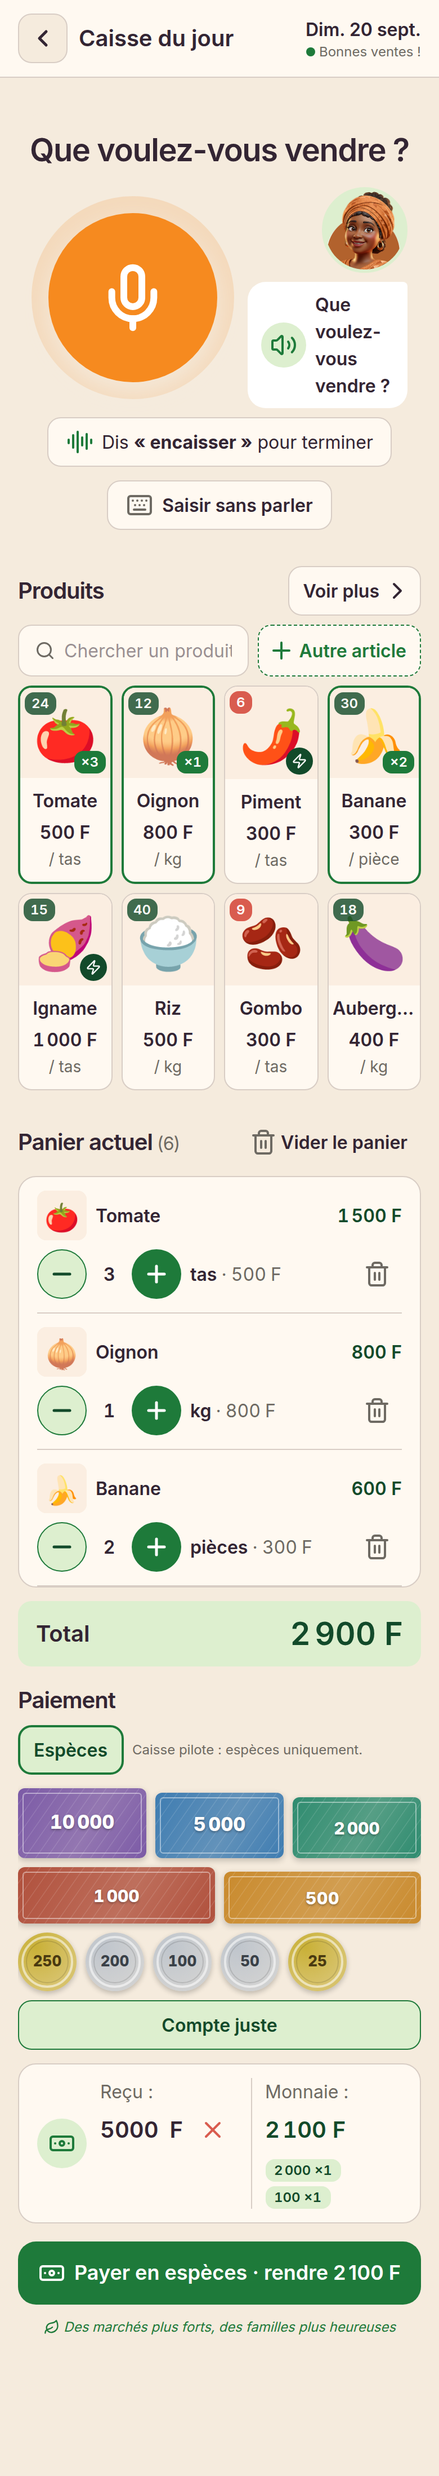
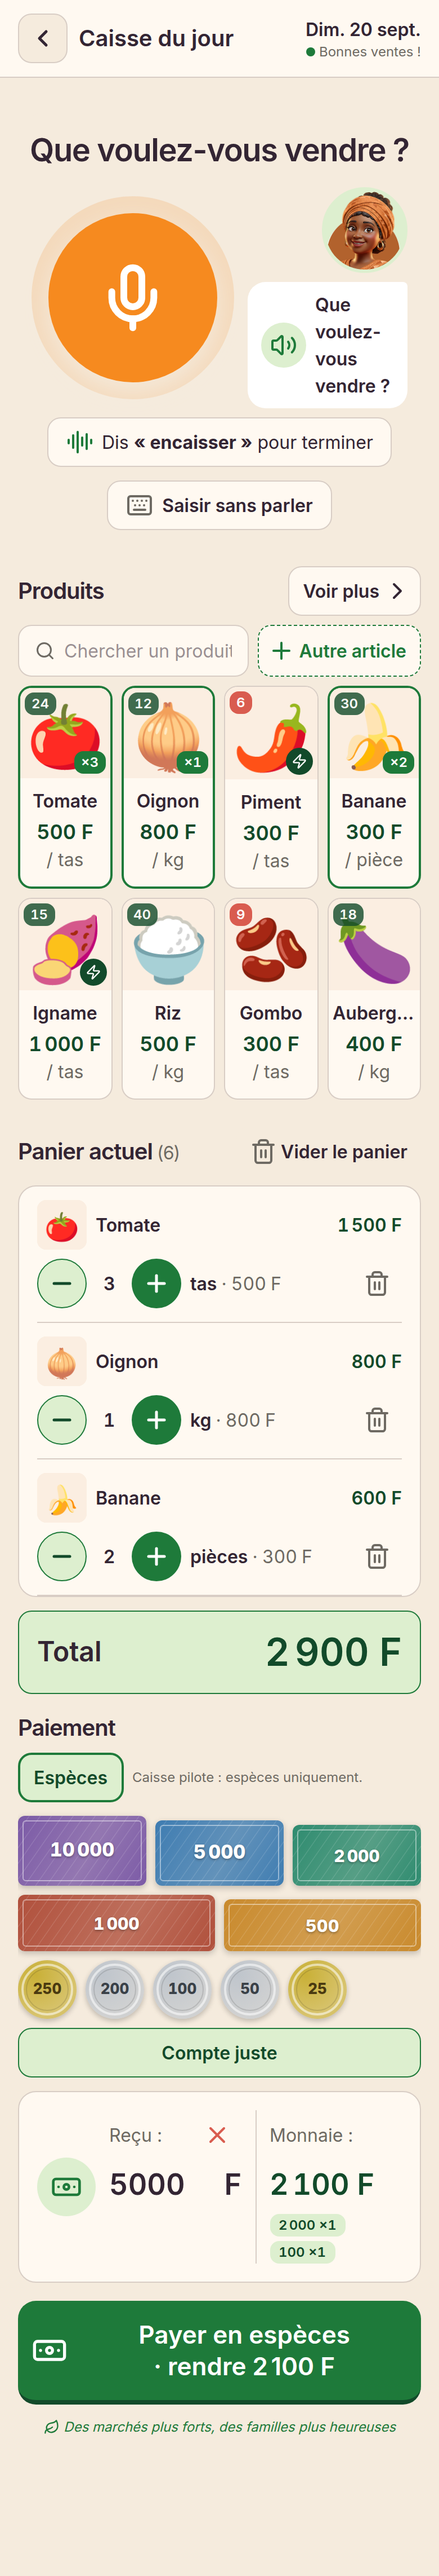
style(caisse): hierarchie du premier ecran — l'argent et le bouton pesent comme la maquette (F2, temps 2)
Retour de Patrick : « la densite est trop forte, on risque de perdre la
lisibilite » ; « l'argent doit etre l'element le plus evident apres le
panier » ; « Payer en especes » doit avoir la presence massive de la cible.

POSCaisse, STYLE SEULEMENT (aucune logique C/D/E/argent touchee, memes
gestionnaires, memes chaines) :
  - cartes produit : la vignette remplit son cadre (scale 1.22 dans un cadre
    a overflow cache), nom 16/24 semibold, prix en 18/24 semibold vert fonce
    avec l'unite en 16 gris, carte de 180 px ;
  - barre Total : 72 px minimum, bordure verte, « Total » 24, montant 34/40
    vert fonce ;
  - carte Recu | Monnaie : montants 26 px, icone billet dans un disque de
    52 ; la colonne Recu met l'etiquette et le ✕ sur une rangee, le montant
    seul dessous — a 28 px « 5 000 F ✕ » etait COUPE dans 125 px de colonne
    (mesure sur la capture « encaisse ») ;
  - « Payer en especes » : 72 px minimum, texte 22/28 semibold (>= 18/24),
    icone 32, pleine largeur, lisere bas vert fonce ;
  - l'encart de relecture financiere (livre par 276e124) devient une BULLE
    et non une alerte : haut-parleur dans un disque blanc comme celui de la
    bulle de Tata, coin haut-gauche casse, phrase 18/26 semibold, bouton
    « Reecouter » sous la phrase. Fond succes, bordure verte, tokens, ICONE,
    speak(relectureAffichee) et cible 44 : ce que caisseRelectureAffichee
    exige est inchange.

Banc de capture : stub du moteur vocal (apercu-caisse/stubs/useVoiceCore.ts)
[…]

diff --git a/frontend_src/src/app/components/marchand/POSCaisse.tsx b/frontend_src/src/app/components/marchand/POSCaisse.tsx
@@ -479,9 +479,9 @@ function POSCaisseInner() {
   // qui se replie proprement quand la vignette est étroite (« 1 000 F » puis
   // « / kg » dessous).
   const Prix = ({ prix, unite }: { prix: number; unite: string }) => (
-    <div style={{ marginTop:'var(--caisse-esp-1)', display:'flex', flexWrap:'wrap', columnGap:'var(--caisse-esp-1)', alignItems:'baseline', justifyContent:'center', font:'var(--caisse-font-texte)', fontWeight:600, color:'var(--encre)', fontVariantNumeric:'tabular-nums' }}>
+    <div style={{ marginTop:'var(--caisse-esp-1)', display:'flex', flexWrap:'wrap', columnGap:'var(--caisse-esp-1)', alignItems:'baseline', justifyContent:'center', font:'var(--caisse-font-bouton)', color:'var(--caisse-vert-fonce)', fontVariantNumeric:'tabular-nums' }}>
       <span>{prix.toLocaleString('fr-FR')} F</span>
-      <span style={{ fontWeight:400, fontSize:14, color:'var(--caisse-gris-texte)' }}>/ {unite}</span>
+      <span style={{ font:'var(--caisse-font-texte)', color:'var(--caisse-gris-texte)' }}>/ {unite}</span>
     </div>
   );
 
@@ -600,9 +600,9 @@ function POSCaisseInner() {
           celui qu'elle regarde avant de dire le prix à la cliente. */}
       <button type="button" onClick={() => dire(`Total : ${total.toLocaleString('fr-FR')} francs`)}
         aria-label={`Total ${total.toLocaleString('fr-FR')} francs — touche pour entendre`}
-        style={{ width:'100%', display:'flex', alignItems:'center', justifyContent:'space-between', gap:'var(--caisse-esp-2)', marginBottom:'var(--caisse-esp-4)', background:'var(--caisse-succes)', border:'none', borderRadius:'var(--caisse-rayon-3)', padding:'var(--caisse-esp-3) var(--caisse-esp-4)', minHeight:'var(--caisse-cible-tactile)', cursor:'pointer', fontFamily:'inherit' }}>
-        <span style={{ font:'var(--caisse-font-h2)', color:'var(--encre)' }}>Total</span>
-        <span style={{ font:'var(--caisse-font-h1)', color:'var(--caisse-vert-fonce)', fontVariantNumeric:'tabular-nums' }}>{total.toLocaleString('fr-FR')} F</span>
+        style={{ width:'100%', display:'flex', alignItems:'center', justifyContent:'space-between', gap:'var(--caisse-esp-2)', marginBottom:'var(--caisse-esp-4)', background:'var(--caisse-succes)', border:'1.5px solid var(--caisse-vert)', borderRadius:'var(--caisse-rayon-3)', padding:'var(--caisse-esp-4) var(--caisse-esp-4)', minHeight:72, cursor:'pointer', fontFamily:'inherit' }}>
+        <span style={{ font:'var(--caisse-font-h1)', fontSize:24, color:'var(--encre)' }}>Total</span>
+        <span style={{ font:'var(--caisse-font-h1)', fontSize:34, lineHeight:'40px', color:'var(--caisse-vert-fonce)', fontVariantNumeric:'tabular-nums' }}>{total.toLocaleString('fr-FR')} F</span>
       </button>
 
       <h2 style={{ font:'var(--caisse-font-h2)', color:'var(--encre)', margin:'0 0 var(--caisse-esp-2)' }}>Paiement</h2>
@@ -693,11 +693,22 @@ function POSCaisseInner() {
             rejoue la même chaîne. */}
         {relectureAffichee && (
           <div role="status" aria-live="polite"
-            style={{ display:'flex', alignItems:'center', gap:'var(--caisse-esp-3)', marginTop:'var(--caisse-esp-3)', background:'var(--caisse-succes)', border:'1.5px solid var(--caisse-vert)', borderRadius:'var(--caisse-rayon-4)', padding:'var(--caisse-esp-3) var(--caisse-esp-4)', minWidth:0 }}>
-            <Volume2 aria-hidden="true" size={ICONE} style={{ color:'var(--caisse-vert)', flexShrink:0 }} />
-            <p style={{ flex:1, minWidth:0, margin:0, font:'var(--caisse-font-texte)', fontWeight:600, color:'var(--encre)' }}>{relectureAffichee}</p>
+            style={{ display:'flex', flexDirection:'column', gap:'var(--caisse-esp-3)', marginTop:'var(--caisse-esp-3)', background:'var(--caisse-succes)', border:'1.5px solid var(--caisse-vert)', borderRadius:'var(--caisse-rayon-4)', borderTopLeftRadius:'var(--caisse-rayon-1)', padding:'var(--caisse-esp-3) var(--caisse-esp-4)', minWidth:0 }}>
+            {/* Une BULLE, pas une alerte (F2) : le haut-parleur dans son disque
+                blanc — le même que celui de la bulle de Tata dans la zone
+                voix — et le coin haut-gauche cassé, comme une parole qui
+                vient d'en haut. La phrase en texte courant semibold, plus
+                grande que les libellés autour : c'est la question à laquelle
+                « oui valide » répond. */}
+            <div style={{ display:'flex', alignItems:'flex-start', gap:'var(--caisse-esp-3)', minWidth:0 }}>
+              <span aria-hidden="true" style={{ width:40, height:40, borderRadius:'50%', background:'white', color:'var(--caisse-vert)', display:'flex', alignItems:'center', justifyContent:'center', flexShrink:0 }}>
+                <Volume2 aria-hidden="true" size={ICONE} style={{ color:'var(--caisse-vert)', flexShrink:0 }} />
+              </span>
+              <p style={{ flex:1, minWidth:0, margin:0, font:'var(--caisse-font-texte)', fontSize:18, lineHeight:'26px', fontWeight:600, color:'var(--encre)', alignSelf:'center' }}>{relectureAffichee}</p>
+            </div>
             <button type="button" onClick={() => speak(relectureAffichee)} aria-label="Réécouter la relecture"
-              style={{ minWidth:'var(--caisse-cible-tactile)', minHeight:'var(--caisse-cible-tactile)', padding:'var(--caisse-esp-2) var(--caisse-esp-3)', borderRadius:'var(--caisse-rayon-3)', border:'1.5px solid var(--caisse-vert)', background:'var(--caisse-ivoire)', color:'var(--caisse-vert-fonce)', font:'var(--caisse-font-texte)', fontWeight:600, cursor:'pointer', fontFamily:'inherit', flexShrink:0 }}>
+              style={{ alignSelf:'flex-end', display:'flex', alignItems:'center', gap:'var(--caisse-esp-2)', minWidth:'var(--caisse-cible-tactile)', minHeight:'var(--caisse-cible-tactile)', padding:'var(--caisse-esp-2) var(--caisse-esp-4)', borderRadius:'var(--caisse-rayon-3)', border:'1.5px solid var(--caisse-vert)', background:'var(--caisse-ivoire)', color:'var(--caisse-vert-fonce)', font:'var(--caisse-font-texte)', fontWeight:600, cursor:'pointer', fontFamily:'inherit', flexShrink:0 }}>
+              <Volume2 aria-hidden="true" size={20} />
               Réécouter
             </button>
           </div>
@@ -706,19 +717,13 @@ function POSCaisseInner() {
         {/* LA CARTE PAIEMENT de la maquette : Reçu | Monnaie. Le reçu reste un
             champ (le filet pour celle qui tape), la monnaie s'entend d'un
             toucher, et se décompose en coupures concrètes dessous. */}
-        <div style={{ display:'flex', alignItems:'stretch', gap:'var(--caisse-esp-3)', marginTop:'var(--caisse-esp-3)', background:'var(--caisse-ivoire)', border:'1px solid var(--commerce-line)', borderRadius:'var(--caisse-rayon-4)', padding:'var(--caisse-esp-3) var(--caisse-esp-4)', minWidth:0 }}>
-          <div aria-hidden="true" style={{ alignSelf:'center', width:44, height:44, borderRadius:'50%', background:'var(--caisse-succes)', color:'var(--caisse-vert)', display:'flex', alignItems:'center', justifyContent:'center', flexShrink:0 }}>
-            <Banknote size={ICONE} />
+        <div style={{ display:'flex', alignItems:'stretch', gap:'var(--caisse-esp-3)', marginTop:'var(--caisse-esp-3)', background:'var(--caisse-ivoire)', border:'1.5px solid var(--commerce-line)', borderRadius:'var(--caisse-rayon-4)', padding:'var(--caisse-esp-4)', minWidth:0 }}>
+          <div aria-hidden="true" style={{ alignSelf:'center', width:52, height:52, borderRadius:'50%', background:'var(--caisse-succes)', color:'var(--caisse-vert)', display:'flex', alignItems:'center', justifyContent:'center', flexShrink:0 }}>
+            <Banknote size={28} />
           </div>
           <div style={{ flex:1, minWidth:0 }}>
-            <div style={{ font:'var(--caisse-font-texte)', color:'var(--caisse-gris-texte)' }}>Reçu :</div>
-            <div style={{ display:'flex', alignItems:'center', gap:'var(--caisse-esp-1)', minWidth:0 }}>
-              {/* minWidth:0 — sans lui, un input vide garde un min-content flexbox
-                  qui peut dépasser un conteneur étroit (panneau permanent 400px,
-                  repéré en recette visuelle) au lieu de rétrécir avec flex:1. */}
-              <input value={montantRecu} onChange={e => setMontantRecu(e.target.value.replace(/[^\d]/g,''))} inputMode="numeric" placeholder="—" aria-label="Montant reçu"
-                style={{ flex:1, minWidth:0, width:'100%', minHeight:'var(--caisse-cible-tactile)', border:'none', outline:'none', textAlign:'left', font:'var(--caisse-font-h2)', fontWeight:600, color:'var(--encre)', background:'transparent', fontVariantNumeric:'tabular-nums', padding:0 }} />
-              <span style={{ font:'var(--caisse-font-h2)', color:'var(--encre)' }}>F</span>
+            <div style={{ display:'flex', alignItems:'center', justifyContent:'space-between', gap:'var(--caisse-esp-1)', minHeight:'var(--caisse-cible-tactile)' }}>
+              <span style={{ font:'var(--caisse-font-texte)', color:'var(--caisse-gris-texte)' }}>Reçu :</span>
               {recu > 0 && (
                 <button type="button" aria-label="Effacer le montant reçu" onClick={() => setMontantRecu('')}
                   style={{ width:'var(--caisse-cible-tactile)', height:'var(--caisse-cible-tactile)', borderRadius:'50%', border:'none', background:'transparent', color:'var(--caisse-alerte)', display:'flex', alignItems:'center', justifyContent:'center', cursor:'pointer', padding:0, flexShrink:0 }}>
@@ -726,14 +731,22 @@ function POSCaisseInner() {
                 </button>
               )}
             </div>
+            <div style={{ display:'flex', alignItems:'center', gap:'var(--caisse-esp-1)', minWidth:0 }}>
+              {/* minWidth:0 — sans lui, un input vide garde un min-content flexbox
+                  qui peut dépasser un conteneur étroit (panneau permanent 400px,
+                  repéré en recette visuelle) au lieu de rétrécir avec flex:1. */}
+              <input value={montantRecu} onChange={e => setMontantRecu(e.target.value.replace(/[^\d]/g,''))} inputMode="numeric" placeholder="—" aria-label="Montant reçu"
+                style={{ flex:1, minWidth:0, width:'100%', minHeight:'var(--caisse-cible-tactile)', border:'none', outline:'none', textAlign:'left', font:'var(--caisse-font-h1)', fontSize:26, color:'var(--encre)', background:'transparent', fontVariantNumeric:'tabular-nums', padding:0 }} />
+              <span style={{ font:'var(--caisse-font-h1)', fontSize:26, color:'var(--encre)' }}>F</span>
+            </div>
           </div>
           <div aria-hidden="true" style={{ width:1, background:'var(--commerce-line)', flexShrink:0 }} />
           {recu > 0 && !insuffisant ? (
           <button type="button" onClick={() => dire(`Monnaie à rendre : ${formatF(monnaie)} francs`)}
             aria-label={`Monnaie à rendre ${formatF(monnaie)} francs — touche pour entendre`}
             style={{ flex:1, minWidth:0, background:'none', border:'none', padding:0, cursor:'pointer', fontFamily:'inherit', textAlign:'left' }}>
-            <div style={{ font:'var(--caisse-font-texte)', color:'var(--caisse-gris-texte)' }}>Monnaie :</div>
-            <div style={{ font:'var(--caisse-font-h2)', color:'var(--caisse-vert-fonce)', fontVariantNumeric:'tabular-nums', minHeight:'var(--caisse-cible-tactile)', display:'flex', alignItems:'center' }}>{formatF(monnaie)} F</div>
+            <div style={{ font:'var(--caisse-font-texte)', color:'var(--caisse-gris-texte)', minHeight:'var(--caisse-cible-tactile)', display:'flex', alignItems:'center' }}>Monnaie :</div>
+            <div style={{ font:'var(--caisse-font-h1)', fontSize:26, color:'var(--caisse-vert-fonce)', fontVariantNumeric:'tabular-nums', minHeight:'var(--caisse-cible-tactile)', display:'flex', alignItems:'center' }}>{formatF(monnaie)} F</div>
             {/* La monnaie EN COUPURES concrètes : « 2000 ×1 · 500 ×1 » */}
             {monnaie > 0 && monnaieDecomposee.lignes.length > 0 && (
               <div style={{ display:'flex', gap:'var(--caisse-esp-1)', marginTop:'var(--caisse-esp-1)', flexWrap:'wrap' }}>
@@ -752,8 +765,8 @@ function POSCaisseInner() {
           </button>
           ) : (
           <div style={{ flex:1, minWidth:0 }}>
-            <div style={{ font:'var(--caisse-font-texte)', color:'var(--caisse-gris-texte)' }}>Monnaie :</div>
-            <div style={{ font:'var(--caisse-font-h2)', color:'var(--caisse-gris-texte)', minHeight:'var(--caisse-cible-tactile)', display:'flex', alignItems:'center' }}>—</div>
+            <div style={{ font:'var(--caisse-font-texte)', color:'var(--caisse-gris-texte)', minHeight:'var(--caisse-cible-tactile)', display:'flex', alignItems:'center' }}>Monnaie :</div>
+            <div style={{ font:'var(--caisse-font-h1)', fontSize:26, color:'var(--caisse-gris-texte)', minHeight:'var(--caisse-cible-tactile)', display:'flex', alignItems:'center' }}>—</div>
           </div>
           )}
         </div>
@@ -776,8 +789,8 @@ function POSCaisseInner() {
             : (monnaie > 0 ? `Payer en espèces · rendre ${monnaie.toLocaleString('fr-FR')} F` : 'Payer en espèces');
         return (
           <motion.button whileTap={{ scale: bloque ? 1 : 0.97 }} onClick={handlePay} disabled={bloque}
-            style={{ width:'100%', display:'flex', alignItems:'center', justifyContent:'center', gap:'var(--caisse-esp-2)', border:'none', borderRadius:'var(--caisse-rayon-4)', padding:'var(--caisse-esp-4) var(--caisse-esp-3)', minHeight:56, font:'var(--caisse-font-bouton)', color:'white', cursor: bloque ? 'not-allowed':'pointer', textWrap:'balance', background: bloque ? 'var(--caisse-gris-texte)' : 'var(--caisse-vert)' }}>
-            <Banknote size={ICONE} aria-hidden="true" style={{ flexShrink:0 }} />
+            style={{ width:'100%', display:'flex', alignItems:'center', justifyContent:'center', gap:'var(--caisse-esp-3)', border:'none', borderBottom: bloque ? 'none' : '4px solid var(--caisse-vert-fonce)', borderRadius:'var(--caisse-rayon-4)', padding:'var(--caisse-esp-4) var(--caisse-esp-3)', minHeight:72, font:'var(--caisse-font-bouton)', fontSize:22, lineHeight:'28px', color:'white', cursor: bloque ? 'not-allowed':'pointer', textWrap:'balance', background: bloque ? 'var(--caisse-gris-texte)' : 'var(--caisse-vert)' }}>
+            <Banknote size={32} aria-hidden="true" style={{ flexShrink:0 }} />
             {label}
           </motion.button>
         );
@@ -970,8 +983,11 @@ function POSCaisseInner() {
                   <motion.button key={p.id} type="button" initial={{ opacity:0, scale:0.95 }} animate={{ opacity:1, scale:1 }} transition={{ delay: i*0.04 }} whileTap={{ scale:0.96 }}
                     onClick={() => ajouterAuPanier(p)} aria-label={`Ajouter ${p.nom} au panier`}
                     style={{ background:'var(--caisse-ivoire)', border: inCart ? '2px solid var(--caisse-vert)' : '1px solid var(--commerce-line)', borderRadius:'var(--caisse-rayon-3)', overflow:'hidden', padding:0, cursor:'pointer', fontFamily:'inherit', textAlign:'center', display:'flex', flexDirection:'column', minWidth:0 }}>
-                    <div style={{ position:'relative', width:'100%', aspectRatio:'1 / 1', background:'var(--caisse-sable)' }}>
-                      <ImageWithFallback src={p.image || undefined} fallbackSrc={getImageByNom(p.nom)} alt="" style={{ width:'100%', height:'100%', objectFit:'cover', display:'block' }} />
+                    <div style={{ position:'relative', width:'100%', aspectRatio:'1 / 1', background:'var(--caisse-sable)', overflow:'hidden' }}>
+                      {/* La photo REMPLIT la vignette (F2 : « la densité est trop
+                          forte ») : les vignettes emoji hors ligne ont une marge
+                          interne, on les grossit légèrement dans leur cadre. */}
+                      <ImageWithFallback src={p.image || undefined} fallbackSrc={getImageByNom(p.nom)} alt="" style={{ width:'100%', height:'100%', objectFit:'cover', display:'block', transform:'scale(1.22)' }} />
                       <StockBadge stock={p.stock || 0} />
                       {enPromo && (
                         <div style={{ position:'absolute', top:'var(--caisse-esp-1)', right:'var(--caisse-esp-1)', background:'var(--caisse-alerte)', borderRadius:'var(--caisse-rayon-2)', padding:'2px 6px', font:'var(--caisse-font-legende)', fontWeight:600, color:'white' }}>
@@ -989,12 +1005,12 @@ function POSCaisseInner() {
                         </div>
                       )}
                     </div>
-                    <div style={{ padding:'var(--caisse-esp-2) var(--caisse-esp-1)', width:'100%', boxSizing:'border-box' }}>
+                    <div style={{ padding:'var(--caisse-esp-2) var(--caisse-esp-1) var(--caisse-esp-3)', width:'100%', boxSizing:'border-box' }}>
                       <div style={{ font:'var(--caisse-font-texte)', fontWeight:600, color:'var(--encre)', overflow:'hidden', textOverflow:'ellipsis', whiteSpace:'nowrap' }}>{p.nom}</div>
                       {enPromo ? (
-                        <div style={{ marginTop:'var(--caisse-esp-1)', display:'flex', flexWrap:'wrap', columnGap:'var(--caisse-esp-1)', alignItems:'baseline', justifyContent:'center', font:'var(--caisse-font-texte)', fontWeight:600, color:'var(--caisse-alerte)', fontVariantNumeric:'tabular-nums' }}>
+                        <div style={{ marginTop:'var(--caisse-esp-1)', display:'flex', flexWrap:'wrap', columnGap:'var(--caisse-esp-1)', alignItems:'baseline', justifyContent:'center', font:'var(--caisse-font-bouton)', color:'var(--caisse-alerte)', fontVariantNumeric:'tabular-nums' }}>
                           <span>{prixEffectif(p as any).toLocaleString('fr-FR')} F</span>
-                          <span style={{ fontWeight:400, fontSize:14, color:'var(--caisse-gris-texte)' }}>/ {p.unite}</span>
+                          <span style={{ font:'var(--caisse-font-texte)', color:'var(--caisse-gris-texte)' }}>/ {p.unite}</span>
                           <span style={{ fontWeight:400, fontSize:12, color:'var(--caisse-gris-texte)', textDecoration:'line-through' }}>{(p.prix||0).toLocaleString('fr-FR')}</span>
                         </div>
                       ) : (

diff --git a/frontend_src/apercu-caisse/stubs/useVoiceCore.ts b/frontend_src/apercu-caisse/stubs/useVoiceCore.ts
@@ -1,0 +1,32 @@
+/**
+ * STUB de useVoiceCore pour l'APERÇU VISUEL de la caisse (F2, temps 2).
+ *
+ * Il n'y a ni micro ni reconnaissance dans un Chromium headless. Pour VOIR
+ * l'encart de relecture financière en situation (« encaisse » dit, reçu
+ * 5 000), le banc de capture INJECTE une intention déjà reconnue, exactement
+ * sous la forme que le vrai moteur passe à `onAction` : `{ action: { type },
+ * transcript }`. Rien d'autre n'est simulé — la machine d'encaissement, la
+ * phrase relue et son affichage sont ceux de POSCaisse. On le dit dans le
+ * rapport : l'intention est injectée, pas reconnue depuis l'audio.
+ */
+import { useCallback, useEffect, useState } from 'react';
+
+type Donnees = { action?: { type: string; [k: string]: unknown }; transcript?: string; intent?: string };
+
+export function useVoiceCore({ onAction }: { onAction?: (d: Donnees) => unknown; [k: string]: unknown } = {}) {
+  const [transcript, setTranscript] = useState('');
+  useEffect(() => {
+    (window as unknown as { __apercuVoix?: unknown }).__apercuVoix = {
+      injecter: async (d: Donnees) => { setTranscript(d.transcript || ''); await onAction?.(d); },
+    };
+  }, [onAction]);
+  const rien = useCallback(() => {}, []);
+  return {
+    state: 'idle' as const, response: null, pendingResponse: null, transcript, liveTranscript: '', error: '',
+    recordingTime: 0, history: [], volume: 0, recentIntents: [],
+    startRecording: rien, stopRecording: rien, handleMicClick: rien, sendText: async () => {},
+    speak: rien, stopSpeaking: rien, isSpeaking: false,
+    confirmAction: rien, cancelAction: rien, reset: () => setTranscript(''), resetHistory: rien,
+    pendingCount: 0, isReplaying: false, isListening: false, isProcessing: false, isSupported: false,
+  };
+}

diff --git a/frontend_src/apercu-caisse/vite.config.ts b/frontend_src/apercu-caisse/vite.config.ts
@@ -26,6 +26,9 @@ export default mergeConfig(base, {
       { find: /^(.*\/)?StockContext$/, replacement: stub('StockContext') },
       { find: /^(.*\/)?RaccourcisContext$/, replacement: stub('RaccourcisContext') },
       { find: /^(.*\/)?ObjectifContext$/, replacement: stub('ObjectifContext') },
+      // Le moteur vocal : pas de micro en headless, l'intention est injectée
+      // (voir stubs/useVoiceCore.ts). La machine d'encaissement, elle, est la vraie.
+      { find: /^(.*\/)?hooks\/useVoiceCore$/, replacement: resolve(ici, 'stubs', 'useVoiceCore.ts') },
     ],
   },
   server: { port: 5199, strictPort: true, host: '127.0.0.1' },

diff --git a/frontend_src/apercu-caisse/README.md b/frontend_src/apercu-caisse/README.md
@@ -25,3 +25,12 @@ Ce dossier n'entre ni dans `npm run build` (l'entrée de production reste
 `index.html`), ni dans `tsc -b` (`tsconfig.json` n'inclut que `src`). Ce qu'il
 **ne prouve pas** : le comportement réel (voix, argent, hors-ligne) — seulement
 l'apparence, sur des données de démonstration.
+
+## État « encaisse dit, reçu 5 000 » (F2)
+
+`stubs/useVoiceCore.ts` remplace le moteur vocal (aucun micro en headless) et
+expose `window.__apercuVoix.injecter(...)` : le banc **injecte** l'intention
+`encaisser` sous la forme exacte que le vrai moteur passe à `onAction`. La
+machine d'encaissement, la phrase relue et son affichage sont ceux de
+`POSCaisse`. Capture : `caisse-portrait-F2-relecture.png` (viewport calé sur
+la barre Total). L'intention est injectée, pas reconnue depuis l'audio.
